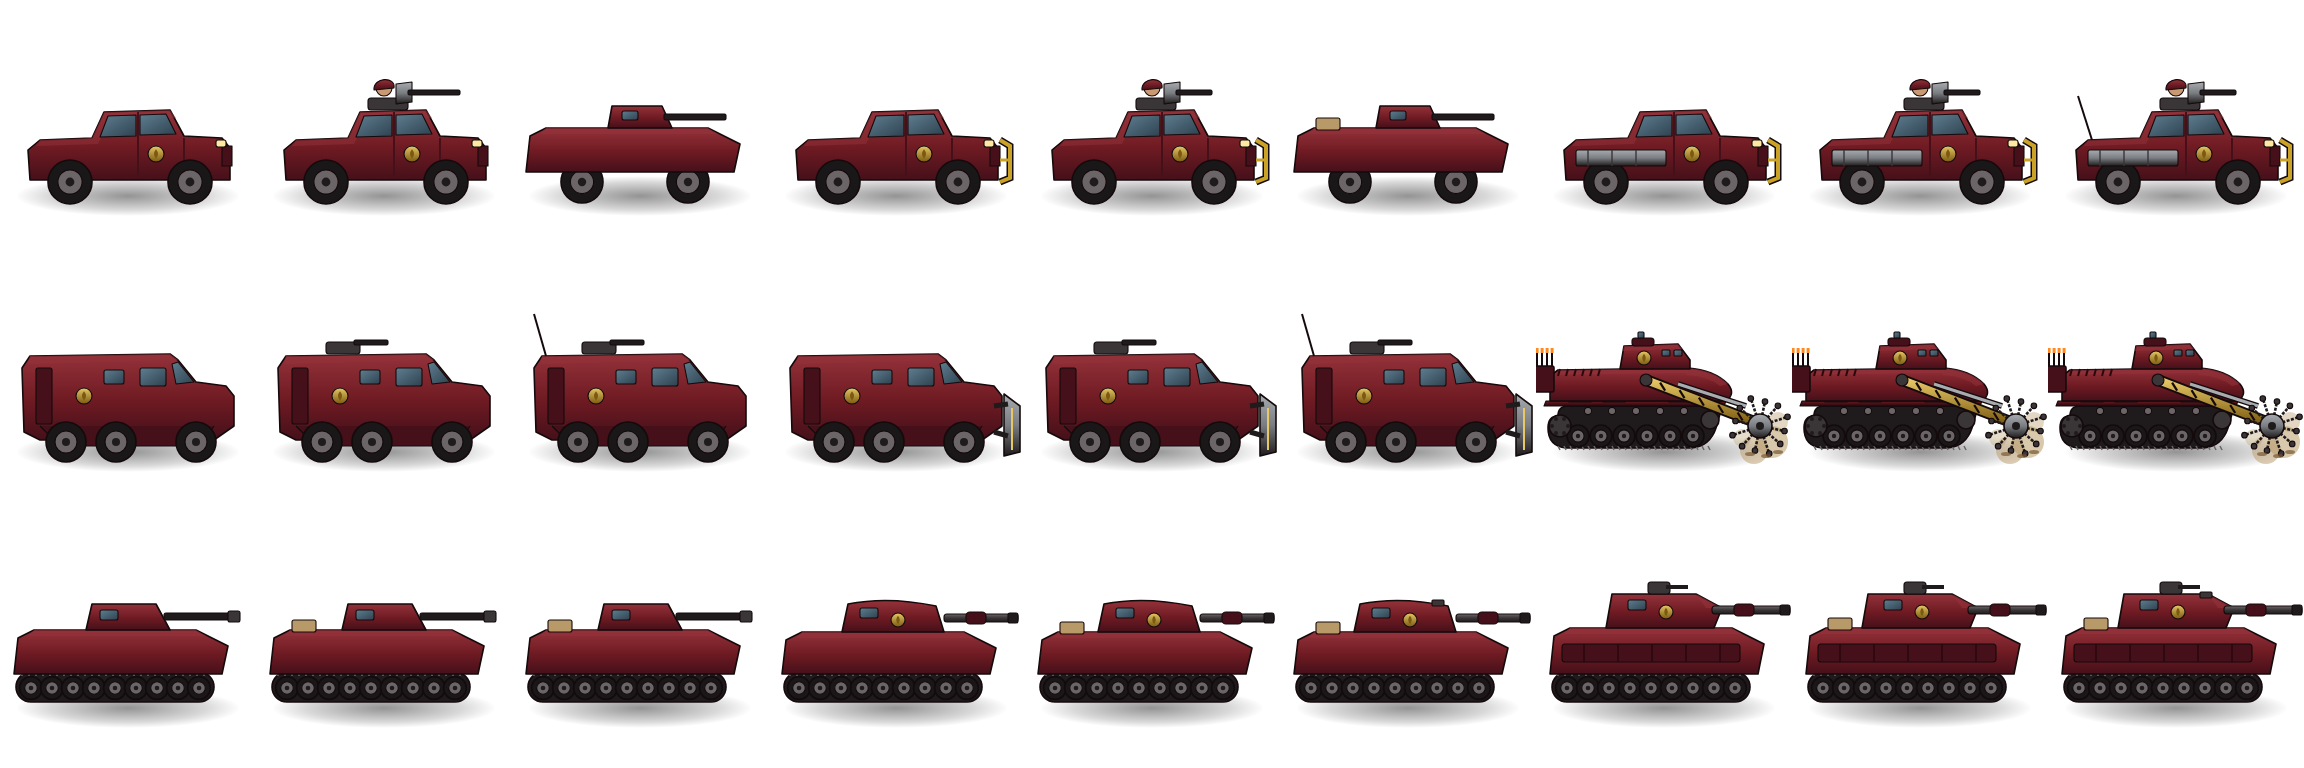
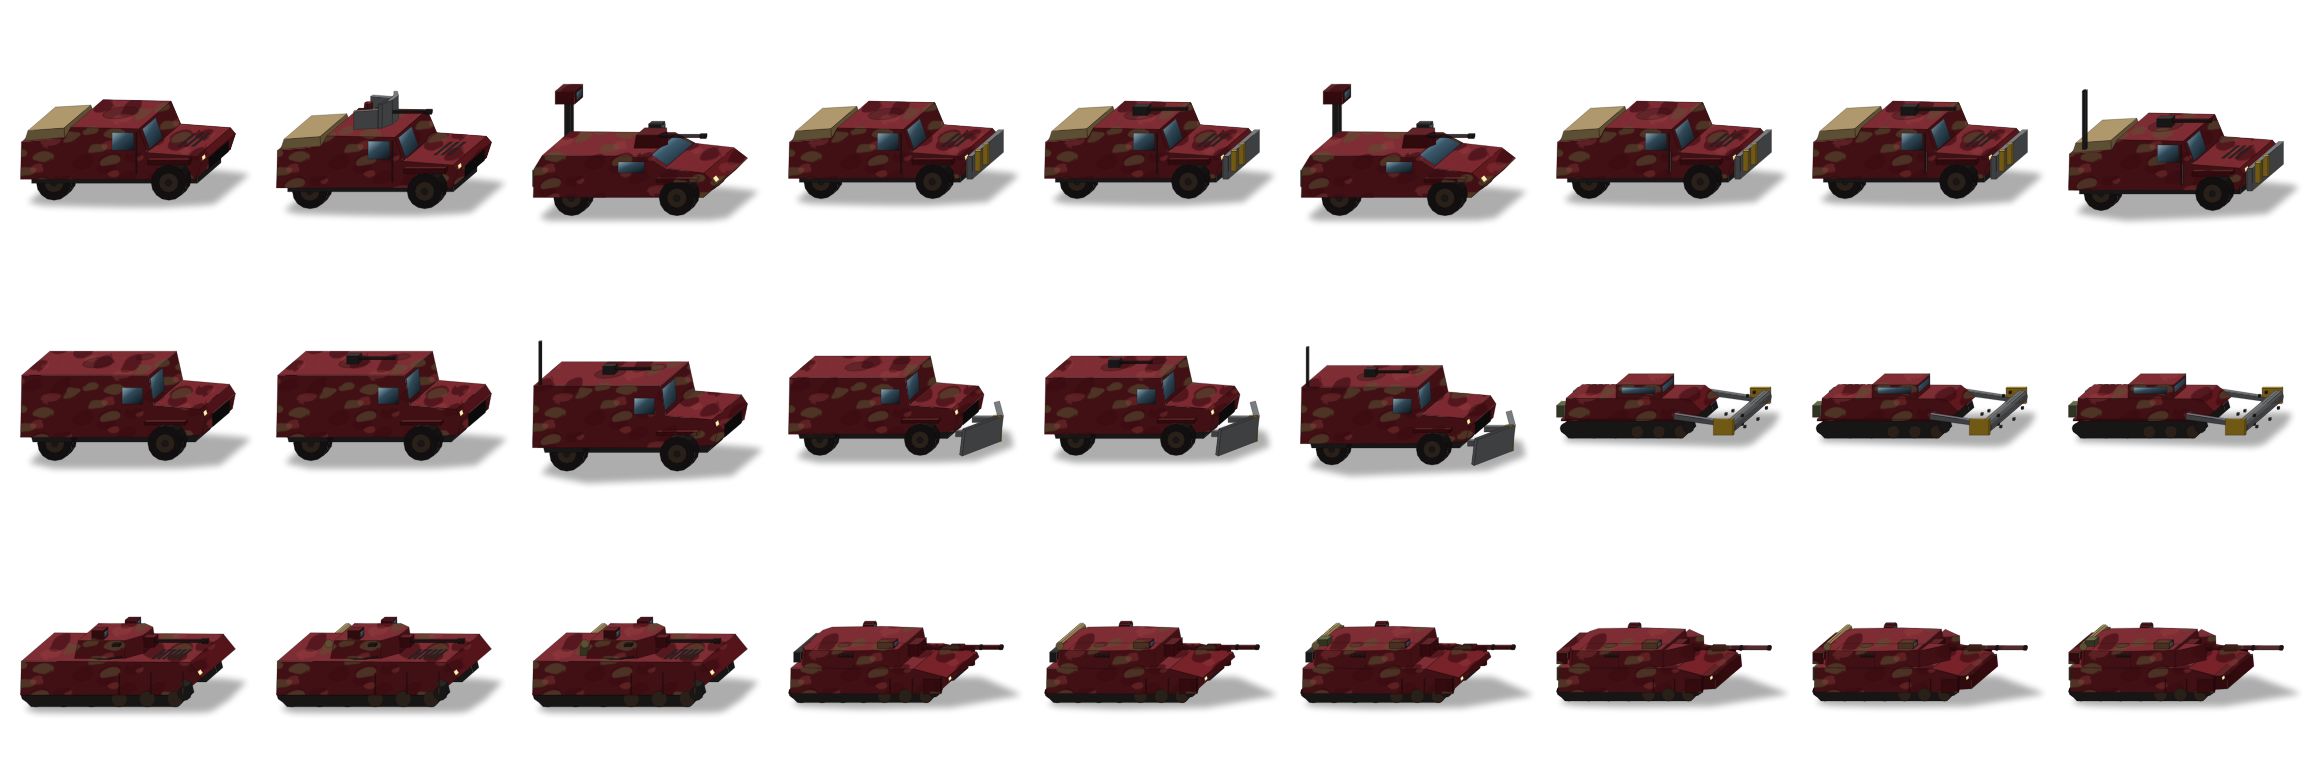
Fahrzeugfabrik im neuen Detailstil (Fahrzeuge als 3D-Modelle nach Referenzfotos, neue Halle)
Claude-Session: https://claude.ai/code/session_01H2UiKssafjRzK7unKsx8yK

Changed region(s): [[0.0, 0.75, 1.0, 0.9688], [0.0, 0.4375, 1.0, 0.6562], [0.0, 0.0938, 1.0, 0.3125]]

diff --git a/index.html b/index.html
@@ -128,6 +128,6 @@ button{touch-action:manipulation}#feld{touch-action:none}
   <div id="toast" role="status" aria-live="polite" style="position:absolute;left:570px;top:96px;transform:translateX(-50%);display:none;z-index:5;background:#2B0509;border:2px solid #C9A227;border-radius:12px;padding:12px 20px;font-weight:800;font-size:17px;color:#E8C766;white-space:nowrap"></div>
   <div id="overlay"><div class="karte" id="overlayInhalt"></div></div>
 </div>
-<script src="spiel.js?v=2026-11-20-11"></script>
+<script src="spiel.js?v=2026-11-20-12"></script>
 </body>
 </html>

diff --git a/spiel.js b/spiel.js
@@ -1,7 +1,7 @@
 // Maiskolbistan Militär-Defense – Testkarte 1 (Westkolbistan)
 // Reines JavaScript, kein Bau-Schritt. Grafiken aus dem Maiskolbistan-Info-Repo (seiten/td-ranger-sprites).
 'use strict';
-const VERSION = '2026-11-20-11';   // bei jedem Update hochzählen (auch in index.html)
+const VERSION = '2026-11-20-12';   // bei jedem Update hochzählen (auch in index.html)
 
 (() => {
   const W = 1140, H = 810, MITTE = 570;

diff --git a/README.md b/README.md
@@ -135,7 +135,7 @@ Anzeige im Spiel: Rauch-, Lawinen- und Sandsturmwolken, eingefrorene Türme (bla
 
 ## Grafikstil (Umstellung läuft)
 
-Der **Ranger** ist im neuen, detaillierteren Stil gezeichnet (nach Fotovorlagen): vorgelehnter Anschlag, Plattenträger, Helm mit Headset, Gewehr in M4-Bauart, Stofftextur und Tarnmuster, Licht von oben links. Stufen: Präzision 1 Laservisier (Strahl) · 2 Elite (Zielfernrohr, goldene Winkel) · 3 Nachtsichtgerät · 4 schweres Gewehr (langer Lauf, Zweibein) · 5 leichtes MG mit Patronenkasten. Sturm 1 Goldspitzen-Munition · 2 Waffenlicht · 3 Schulter-, Hals- und Leistenschutz · 4 Granatwerfer und Handgranaten · 5 Sturmhaube mit Visier. Der **Scharfschütze** ist ebenfalls umgestellt (kniender Anschlag, Ellbogen auf dem Knie, Gewehr in M110-Bauart): Phantom 1 Buschhut + Tarnschminke · 2 Wärmebild-Vorsatz · 3 Schalldämpfer · 4 Ghillie-Kapuze und Tarnstreifen · 5 voller Ghillie mit Maisblättern; Schwerkaliber 1 längerer Lauf · 2 .50-Gewehr mit Mündungsbremse · 3 Helm und Panzerung · 4 Leuchtpistole · 5 Laser-Gewehr. Der **Juggernaut** ebenfalls (schwere Plattenrüstung mit Visierhelm, Minigun in M134-Bauart in Hüfthöhe, Munitionsrucksack mit Gurt): Feuerwalze 1 goldene Kraft-Handschuhe · 2 goldene Gelenkdämpfer · 3 lange Läufe · 4 Power-Minigun · 5 HE (glühende Läufe, rotes Visier, Hörner); Doppelfeuer 1 goldener Tragegriff · 2 AP-Gurt (gold) · 3 zweite Minigun am Schulterarm · 4 Cyan-Energierucksack · 5 Volle Leistung (Goldkanten). Der **Railgunner** ebenfalls (Körper wie der Ranger, Schienenkanone mit Spulenringen und leuchtendem Kanal, Batteriepack; ab Geschützstellung eine Stellung hinter einer dreilagigen Sandsackmauer mit Dreibein, Schutzschild, Kondensatorbank und Generator): Schienen-Soldat 1 Kühlzellen · 2 Zielfernrohr · 3 längere Schienen · 4 Kampfanzug · 5 Gold-Spulen; Geschützstellung 1 Proto-Munition (violett) · 2 Blitzbögen · 3 Stellung · 4 Doppelrohr · 5 XRT-9000 (goldene Kondensatorbank). Das **Logistik-Depot** ebenfalls (echte Schrägansicht mit Licht von links oben und Schlagschatten: Kiesplatz mit HESCO-Wall, Fahne, Holzkisten auf Paletten, Munitionskisten, Kornsäcke): Versorgung 1 mehr Kisten und Kanister · 2 Wellblech-Lagerhalle mit Rolltor und Flutlicht · 3 Lkw mit Plane · 4 Kornsilo mit Förderrohr · 5 Staatsreserve (Tresorbau, goldenes Silo, Goldbarren); Sanität 1 Sanitätszelt · 2 Feldlazarett mit Trage · 3 Krankenwagen · 4 Rettungshubschrauber auf Landeplatz · 5 Feldkrankenhaus aus Containern (grünes Kreuz). Der **Flammenwerfer** ebenfalls (Körper wie der Ranger, Flammenrohr nach Bauart M2 mit Zündflamme, Schlauch, Rückentanks mit Druckgaskugel): Hitze 1 blaue Zündflamme · 2 größerer Werfer · 3 Napalm (orange Tanks mit Warnstreifen) · 4 M3 (drei Tanks, Schutzausrüstung) · 5 Exo-Flammenanzug (Gold, Tragegestell); Brandsatz 1 Zündflaschen am Gürtel · 2 Kanister und tropfende Düse · 3 Phosphor (weiße Tanks) · 4 Feuerwand (Breitdüse) · 5 Inferno-Werfer (Doppelrohr, Gold). Der **Raketenwerfer** ebenfalls (Körper wie der Ranger, Rohr auf der Schulter): Panzerjäger 1 roter HE-Sprengkopf · 2 Zielfernrohr · 3 SMAW+ (dickeres Rohr, Einschießgewehr) · 4 großer Tandem-Sprengkopf · 5 Javelin (Kommandoeinheit, Gold); Raketenhagel 1 Tasche · 2 Rucksack mit Reserveraketen · 3 M2 Carl (Stahlrohr mit Kühlrippen und Trichter) · 4 großer Splitterradius (drei Reserveraketen, Schutzausrüstung) · 5 Mehrfachwerfer (Kasten mit Rohren). **Effekte** ebenfalls im Detailstil (`bilder/effekte_spritesheet@2x.png`, doppelte Auflösung, Atlas-Koordinaten unverändert in 1×): Kugeln mit Luftschliere, Leuchtspur, Granaten, Mündungsfeuer mit Seitenflammen, Treffer-Funken mit Staub, Explosion in 8 Bildern (Blitz, Feuerball, Rauchpilz, Splitter, Glut), Brandfläche mit Flammenzungen, Leuchtkugel am Fallschirm, Betäubt-Sterne. Im Code gezeichnet: Flammenkegel aus vielen Flammenzungen mit Rauch und Funken, Rakete mit Leitwerk, Treibsatz und Rauchfahne, Feuerring mit Glut. Zeichengröße auf der Karte: Soldaten im Detailstil 84 px, Juggernaut 105 px, Railgun-Stellung 115 px (passend zu den Gegnern). Die übrigen Türme folgen nacheinander.
+Der **Ranger** ist im neuen, detaillierteren Stil gezeichnet (nach Fotovorlagen): vorgelehnter Anschlag, Plattenträger, Helm mit Headset, Gewehr in M4-Bauart, Stofftextur und Tarnmuster, Licht von oben links. Stufen: Präzision 1 Laservisier (Strahl) · 2 Elite (Zielfernrohr, goldene Winkel) · 3 Nachtsichtgerät · 4 schweres Gewehr (langer Lauf, Zweibein) · 5 leichtes MG mit Patronenkasten. Sturm 1 Goldspitzen-Munition · 2 Waffenlicht · 3 Schulter-, Hals- und Leistenschutz · 4 Granatwerfer und Handgranaten · 5 Sturmhaube mit Visier. Der **Scharfschütze** ist ebenfalls umgestellt (kniender Anschlag, Ellbogen auf dem Knie, Gewehr in M110-Bauart): Phantom 1 Buschhut + Tarnschminke · 2 Wärmebild-Vorsatz · 3 Schalldämpfer · 4 Ghillie-Kapuze und Tarnstreifen · 5 voller Ghillie mit Maisblättern; Schwerkaliber 1 längerer Lauf · 2 .50-Gewehr mit Mündungsbremse · 3 Helm und Panzerung · 4 Leuchtpistole · 5 Laser-Gewehr. Der **Juggernaut** ebenfalls (schwere Plattenrüstung mit Visierhelm, Minigun in M134-Bauart in Hüfthöhe, Munitionsrucksack mit Gurt): Feuerwalze 1 goldene Kraft-Handschuhe · 2 goldene Gelenkdämpfer · 3 lange Läufe · 4 Power-Minigun · 5 HE (glühende Läufe, rotes Visier, Hörner); Doppelfeuer 1 goldener Tragegriff · 2 AP-Gurt (gold) · 3 zweite Minigun am Schulterarm · 4 Cyan-Energierucksack · 5 Volle Leistung (Goldkanten). Der **Railgunner** ebenfalls (Körper wie der Ranger, Schienenkanone mit Spulenringen und leuchtendem Kanal, Batteriepack; ab Geschützstellung eine Stellung hinter einer dreilagigen Sandsackmauer mit Dreibein, Schutzschild, Kondensatorbank und Generator): Schienen-Soldat 1 Kühlzellen · 2 Zielfernrohr · 3 längere Schienen · 4 Kampfanzug · 5 Gold-Spulen; Geschützstellung 1 Proto-Munition (violett) · 2 Blitzbögen · 3 Stellung · 4 Doppelrohr · 5 XRT-9000 (goldene Kondensatorbank). Das **Logistik-Depot** ebenfalls (echte Schrägansicht mit Licht von links oben und Schlagschatten: Kiesplatz mit HESCO-Wall, Fahne, Holzkisten auf Paletten, Munitionskisten, Kornsäcke): Versorgung 1 mehr Kisten und Kanister · 2 Wellblech-Lagerhalle mit Rolltor und Flutlicht · 3 Lkw mit Plane · 4 Kornsilo mit Förderrohr · 5 Staatsreserve (Tresorbau, goldenes Silo, Goldbarren); Sanität 1 Sanitätszelt · 2 Feldlazarett mit Trage · 3 Krankenwagen · 4 Rettungshubschrauber auf Landeplatz · 5 Feldkrankenhaus aus Containern (grünes Kreuz). Der **Flammenwerfer** ebenfalls (Körper wie der Ranger, Flammenrohr nach Bauart M2 mit Zündflamme, Schlauch, Rückentanks mit Druckgaskugel): Hitze 1 blaue Zündflamme · 2 größerer Werfer · 3 Napalm (orange Tanks mit Warnstreifen) · 4 M3 (drei Tanks, Schutzausrüstung) · 5 Exo-Flammenanzug (Gold, Tragegestell); Brandsatz 1 Zündflaschen am Gürtel · 2 Kanister und tropfende Düse · 3 Phosphor (weiße Tanks) · 4 Feuerwand (Breitdüse) · 5 Inferno-Werfer (Doppelrohr, Gold). Der **Raketenwerfer** ebenfalls (Körper wie der Ranger, Rohr auf der Schulter): Panzerjäger 1 roter HE-Sprengkopf · 2 Zielfernrohr · 3 SMAW+ (dickeres Rohr, Einschießgewehr) · 4 großer Tandem-Sprengkopf · 5 Javelin (Kommandoeinheit, Gold); Raketenhagel 1 Tasche · 2 Rucksack mit Reserveraketen · 3 M2 Carl (Stahlrohr mit Kühlrippen und Trichter) · 4 großer Splitterradius (drei Reserveraketen, Schutzausrüstung) · 5 Mehrfachwerfer (Kasten mit Rohren). Die **Fahrzeugfabrik** ebenfalls: jedes Fahrzeug ist ein kleines 3D-Modell in Metern nach Referenzfotos (HMMWV M1151, MaxxPro-MRAP, Minenräumpanzer Keiler, Spähwagen Fennek, Schützenpanzer Puma, Leopard 2A4 und 2A7), daraus entstehen Draufsicht (Rumpf und drehbarer Turm) und Schrägbild mit Licht von links oben und weinroter Tarnlackierung; Fabrikhalle mit Wellblechdach, Oberlichtern, offenem Tor und Vorplatz. **Effekte** ebenfalls im Detailstil (`bilder/effekte_spritesheet@2x.png`, doppelte Auflösung, Atlas-Koordinaten unverändert in 1×): Kugeln mit Luftschliere, Leuchtspur, Granaten, Mündungsfeuer mit Seitenflammen, Treffer-Funken mit Staub, Explosion in 8 Bildern (Blitz, Feuerball, Rauchpilz, Splitter, Glut), Brandfläche mit Flammenzungen, Leuchtkugel am Fallschirm, Betäubt-Sterne. Im Code gezeichnet: Flammenkegel aus vielen Flammenzungen mit Rauch und Funken, Rakete mit Leitwerk, Treibsatz und Rauchfahne, Feuerring mit Glut. Zeichengröße auf der Karte: Soldaten im Detailstil 84 px, Juggernaut 105 px, Railgun-Stellung 115 px (passend zu den Gegnern). Die übrigen Türme folgen nacheinander.
 
 ## Turm-Paket 1 (nach TDX-Wiki)
 
